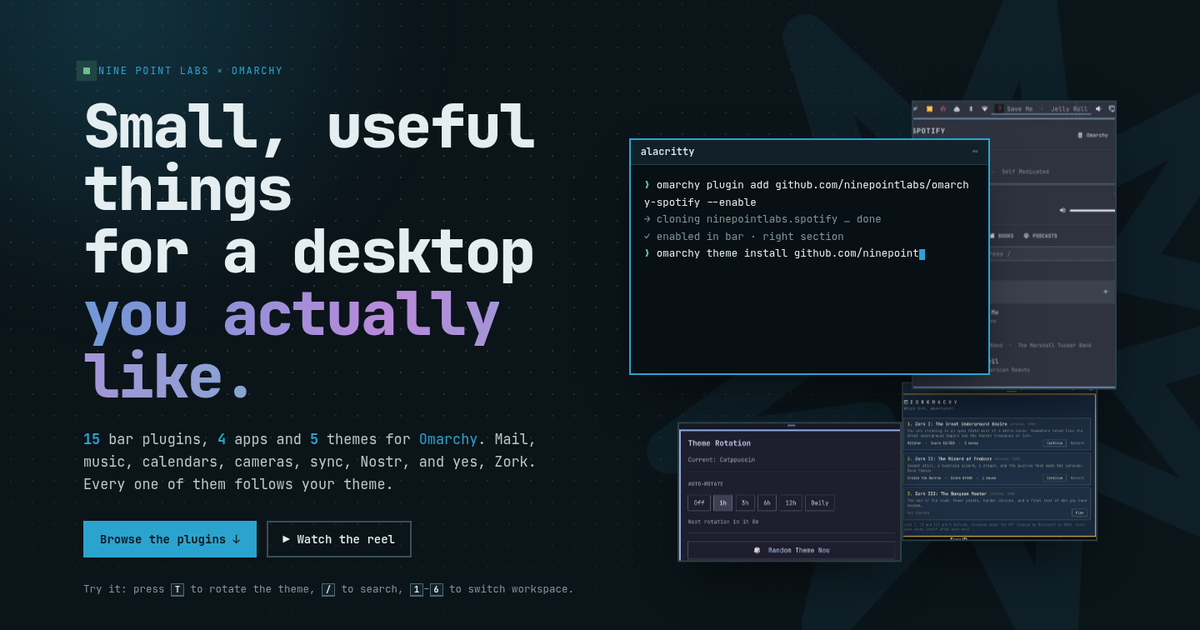
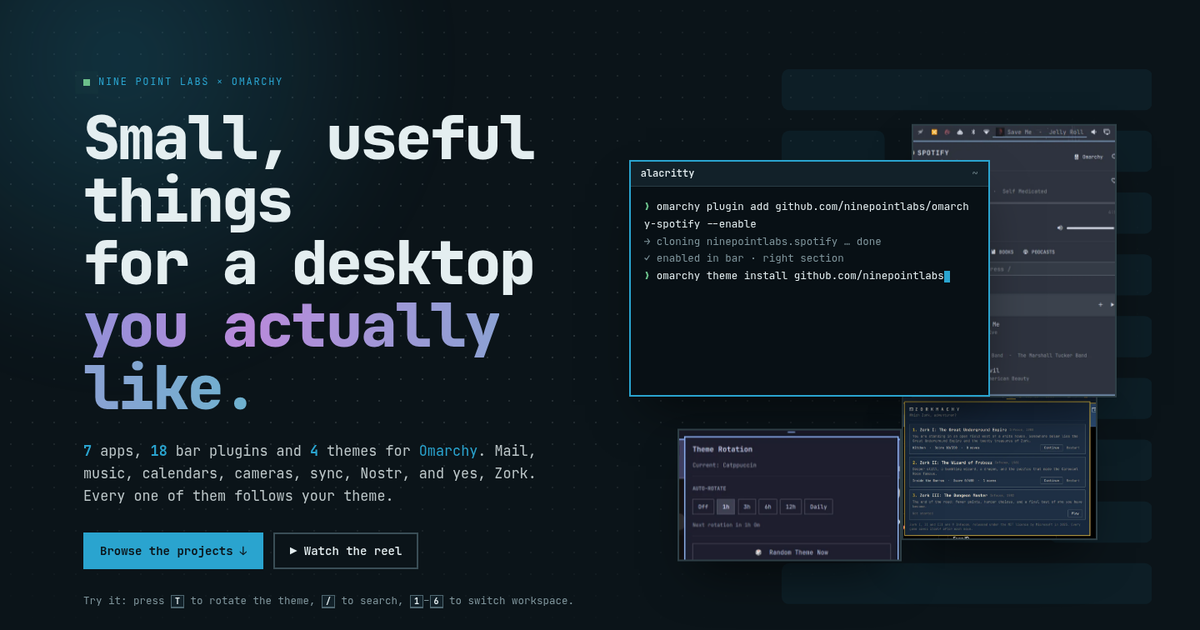
Rebrand: nine-line 9 mark (theme-aware), new About copy, OG without the star

diff --git a/index.html b/index.html
@@ -15,7 +15,7 @@
   <meta name="twitter:card" content="summary_large_image">
   <meta name="twitter:title" content="Nine Point Labs for Omarchy">
   <meta name="twitter:description" content="Apps, bar plugins and themes for the Omarchy desktop.">
-  <link rel="icon" href="assets/img/npl-mark.svg" type="image/svg+xml">
+  <link rel="icon" href="assets/img/favicon.svg" type="image/svg+xml">
   <link rel="preconnect" href="https://fonts.googleapis.com">
   <link rel="preconnect" href="https://fonts.gstatic.com" crossorigin>
   <link href="https://fonts.googleapis.com/css2?family=JetBrains+Mono:ital,wght@0,400;0,500;0,700;0,800;1,400&display=swap" rel="stylesheet">
@@ -29,7 +29,7 @@
 <header class="bar" id="bar">
   <div class="bar-left">
     <a href="#home" class="bar-logo" aria-label="Nine Point Labs, back to top">
-      <svg viewBox="0 0 300 300" aria-hidden="true"><use href="#star"/></svg>
+      <svg viewBox="0 0 24 24" aria-hidden="true"><use href="#npl-mark-24"/></svg>
     </a>
     <nav class="workspaces" aria-label="Sections">
       <a href="#home" data-ws="home"><b>1</b><span>home</span></a>
@@ -55,7 +55,7 @@
 <!-- 1 · HOME -->
 <section id="home" class="hero ws">
   <div class="hero-bg" aria-hidden="true">
-    <svg class="hero-star" viewBox="0 0 300 300"><use href="#star"/></svg>
+    <svg class="hero-mark" viewBox="0 0 144 208"><use href="#npl-mark"/></svg>
     <div class="hero-grid"></div>
   </div>
 
@@ -143,13 +143,13 @@
 
 <!-- 6 · ABOUT -->
 <section id="about" class="ws wrap about">
-  <div class="about-star" aria-hidden="true"><svg viewBox="0 0 300 300"><use href="#star"/></svg></div>
+  <div class="about-mark" aria-hidden="true"><svg viewBox="0 0 144 208"><use href="#npl-mark"/></svg></div>
   <div class="about-copy">
     <p class="eyebrow">workspace 6 · who's building this</p>
     <h2>Nine Point Labs</h2>
     <p>I'm Tim: combat veteran, semi-retired technologist, full-time dad in Whitehouse, Texas. Omarchy runs on every machine I sit down at, and these projects are my way of giving something back to it.</p>
     <p>I write some of the code and direct a small team of AI agents for the rest. My one real skill is seeing clearly what a tool should <em>feel</em> like, and being stubborn until it does.</p>
-    <blockquote><strong>Why nine?</strong> In the Bahá'í Faith, nine is the number of completeness and of unity, especially the unity of humanity. Hence the star, and hence the name.</blockquote>
+    <blockquote><strong>Why nine?</strong> In the Army, a nine-line is a short report with nine items. You fill it in, send it, and help is on the way. No fluff, nothing extra, and it works when it counts. I carried that idea with me from the infantry into building software. Nine Point Labs makes small, clear tools for Linux and the open web that do their job and stay out of your way. (And yes, the 'Labs' is a little nod to Bell Labs.)</blockquote>
     <div class="links">
       <a class="btn primary" href="https://github.com/ninepointlabs">GitHub</a>
       <a class="btn" href="https://ninepointlabs.com">ninepointlabs.com</a>
@@ -208,9 +208,25 @@
 
 <svg width="0" height="0" style="position:absolute" aria-hidden="true">
   <defs>
-    <symbol id="star" viewBox="0 0 300 300">
-      <polygon points="150,32 167.79,101.14 225.85,59.61 195.03,124 266.21,129.51 201.21,159.03 252.19,209 183.42,189.83 190.36,260.88 150,202 109.64,260.88 116.58,189.83 47.81,209 98.79,159.03 33.79,129.51 104.97,124 74.15,59.61 132.21,101.14" fill="none" stroke="currentColor" stroke-width="16" stroke-linejoin="round"/>
-      <polygon points="150,108 156.16,133.09 177,117.83 165.59,141 191.36,142.71 167.73,153.13 186.37,171 161.57,163.79 164.36,189.47 150,168 135.64,189.47 138.43,163.79 113.63,171 132.27,153.13 108.64,142.71 134.41,141 123,117.83 143.84,133.09" fill="currentColor" opacity=".9"/>
+    <!-- Nine Point Labs mark (nine-line 9), one colour: fills with currentColor so it follows the theme accent. -->
+    <symbol id="npl-mark" viewBox="0 0 144 208" fill="currentColor">
+      <rect x="0" y="0" width="144" height="16" rx="3"/>
+      <rect x="0" y="24" width="40" height="16" rx="3"/>
+      <rect x="104" y="24" width="40" height="16" rx="3"/>
+      <rect x="0" y="48" width="40" height="16" rx="3"/>
+      <rect x="104" y="48" width="40" height="16" rx="3"/>
+      <rect x="0" y="72" width="40" height="16" rx="3"/>
+      <rect x="104" y="72" width="40" height="16" rx="3"/>
+      <rect x="0" y="96" width="144" height="16" rx="3"/>
+      <rect x="104" y="120" width="40" height="16" rx="3"/>
+      <rect x="104" y="144" width="40" height="16" rx="3"/>
+      <rect x="104" y="168" width="40" height="16" rx="3"/>
+      <rect x="0" y="192" width="144" height="16" rx="3"/>
+    </symbol>
+    <symbol id="npl-mark-24" viewBox="0 0 24 24" fill="currentColor">
+      <rect x="5" y="2" width="14" height="2"/><rect x="5" y="5" width="4" height="2"/><rect x="15" y="5" width="4" height="2"/>
+      <rect x="5" y="8" width="4" height="2"/><rect x="15" y="8" width="4" height="2"/><rect x="5" y="11" width="14" height="2"/>
+      <rect x="15" y="14" width="4" height="2"/><rect x="15" y="17" width="4" height="2"/><rect x="5" y="20" width="14" height="2"/>
     </symbol>
   </defs>
 </svg>

diff --git a/assets/css/site.css b/assets/css/site.css
@@ -55,8 +55,7 @@ kbd {
 .bar-left, .bar-right { display: flex; align-items: center; gap: 6px; min-width: 0; }
 .bar-right { justify-content: flex-end; }
 .bar-logo { display: grid; place-items: center; width: 26px; height: 26px; color: var(--accent); }
-.bar-logo svg { width: 20px; height: 20px; transition: transform .8s var(--ease); }
-.bar-logo:hover svg { transform: rotate(40deg); }
+.bar-logo svg { width: 24px; height: 24px; }
 .workspaces { display: flex; gap: 2px; }
 .workspaces a {
   display: flex; align-items: center; justify-content: center; gap: 6px; padding: 3px 8px;
@@ -108,10 +107,9 @@ kbd {
   overflow: hidden;
 }
 .hero-bg { position: absolute; inset: 0; pointer-events: none; }
-.hero-star {
-  position: absolute; width: min(115vh, 1100px); aspect-ratio: 1; right: -18%; top: 50%;
+.hero-mark {
+  position: absolute; height: min(85vh, 760px); aspect-ratio: 144 / 208; right: 4%; top: 50%;
   translate: 0 -50%; color: var(--accent); opacity: .07;
-  animation: spin 140s linear infinite;
 }
 .hero-grid {
   position: absolute; inset: 0;
@@ -124,7 +122,6 @@ kbd {
   background: radial-gradient(circle, color-mix(in srgb, var(--accent) 22%, transparent), transparent 60%);
   filter: blur(40px); transition: background .8s var(--ease);
 }
-@keyframes spin { to { rotate: 360deg; } }
 
 .hero-copy { position: relative; z-index: 1; }
 .eyebrow {
@@ -305,8 +302,8 @@ h2 { margin: 0; font-size: clamp(1.8rem, 3.8vw, 3rem); line-height: 1.08; font-w
 
 /* About */
 .about { display: grid; grid-template-columns: minmax(0, .8fr) minmax(0, 1.2fr); gap: 60px; align-items: center; }
-.about-star { color: var(--accent); display: grid; place-items: center; }
-.about-star svg { width: min(100%, 380px); filter: drop-shadow(0 0 60px color-mix(in srgb, var(--accent) 45%, transparent)); animation: spin 90s linear infinite reverse; }
+.about-mark { color: var(--accent); display: grid; place-items: center; }
+.about-mark svg { width: min(100%, 220px); aspect-ratio: 144 / 208; }
 .about-copy p { color: color-mix(in srgb, var(--fg) 80%, var(--bg)); }
 .about-copy h2 { margin-bottom: 18px; }
 blockquote { margin: 24px 0; padding: 14px 18px; border-left: 3px solid var(--accent); background: var(--bg-light); color: var(--fg); font-size: 14px; }
@@ -378,7 +375,7 @@ blockquote { margin: 24px 0; padding: 14px 18px; border-left: 3px solid var(--ac
   .reel-list { grid-template-columns: repeat(2, minmax(0, 1fr)); }
   .app, .about { grid-template-columns: minmax(0, 1fr); gap: 24px; }
   .app:nth-child(even) .app-media { order: 0; }
-  .about-star svg { width: 180px; }
+  .about-mark svg { width: 120px; }
 }
 @media (max-width: 700px) {
   .bar { grid-template-columns: minmax(0, 1fr) auto; }

diff --git a/assets/js/data.js b/assets/js/data.js
@@ -7,7 +7,7 @@ const IMG = "assets/img/";
 window.NPL = {
   themes: [
     {
-      id: "ninepoint", name: "Nine Point", note: "The house colours: teal star on midnight.",
+      id: "ninepoint", name: "Nine Point", note: "The house colours: teal on midnight.",
       c: { bg: "#0B1419", bgDark: "#081015", bgLight: "#122129", fg: "#E4EEF0", fgDim: "#7F959C", accent: "#2AA4CF", selection: "#15394A", muted: "#4E6670", red: "#E0605A", yellow: "#E8B84A", green: "#6CC08B", magenta: "#B98ADB", cyan: "#4FC1C9" },
     },
     {

diff --git a/README.md b/README.md
@@ -19,7 +19,7 @@ index.html
 assets/css/site.css     theme tokens + layout
 assets/js/data.js       all projects, themes, videos (edit this to add things)
 assets/js/site.js       rendering and interactions
-assets/img/             screenshots (WebP), wallpapers, og.png, npl-mark.svg
+assets/img/             screenshots (WebP), wallpapers, og.png, favicon.svg
 assets/video/           promo videos (H.264, faststart) + posters
 ```
 
